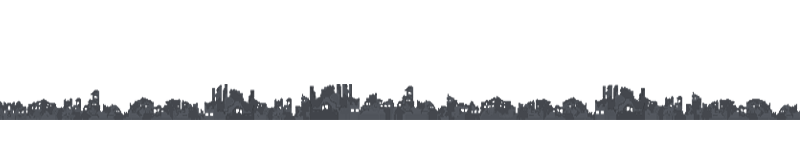
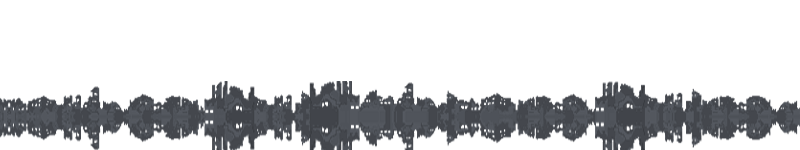
background update, death anim

Changed region(s): [[0.0, 0.8, 1.0, 1.0], [0.0, 0.5333, 1.0, 0.7733], [0.8438, 0.72, 0.875, 0.7467]]

diff --git a/Cyclyc/ShipGirl/ShipGame.cs b/Cyclyc/ShipGirl/ShipGame.cs
@@ -78,14 +78,14 @@ namespace Cyclyc.ShipGirl
         protected EnemyMaker MakeJerkEnemy(int y)
         {
             return (c) => 
-                enemyBatch.Create(c, "spider robot space", 1, CollisionStyle.Circle, "jerk", true,
+                enemyBatch.Create(c, "spider robot space creepy", 1, CollisionStyle.Circle, "jerk", true,
                     y, 14, 14, 1.0);
         }
 
         protected EnemyMaker MakeLoopEnemy(int y)
         {
             return (c) =>
-                enemyBatch.Create(c, "walking robot space", 1, CollisionStyle.Circle, "loop", true,
+                enemyBatch.Create(c, "walking robot space creepy", 1, CollisionStyle.Circle, "loop", true,
                     y, 28, 28, 1.0);
         }
 

diff --git a/Cyclyc/JetpackGirl/JetGame.cs b/Cyclyc/JetpackGirl/JetGame.cs
@@ -34,6 +34,7 @@ namespace Cyclyc.JetpackGirl
         public override void Initialize()
         {
             AddBackground("pixel city sky", 0.1f);
+            AddBackground("pixel city sunset", 0.1f);
             AddBackground("pixel city skyline", 0.2f);
             AddBackground("pixel city middleground", 0.4f);
             AddBackground("pixel city foreground", 0.6f);
